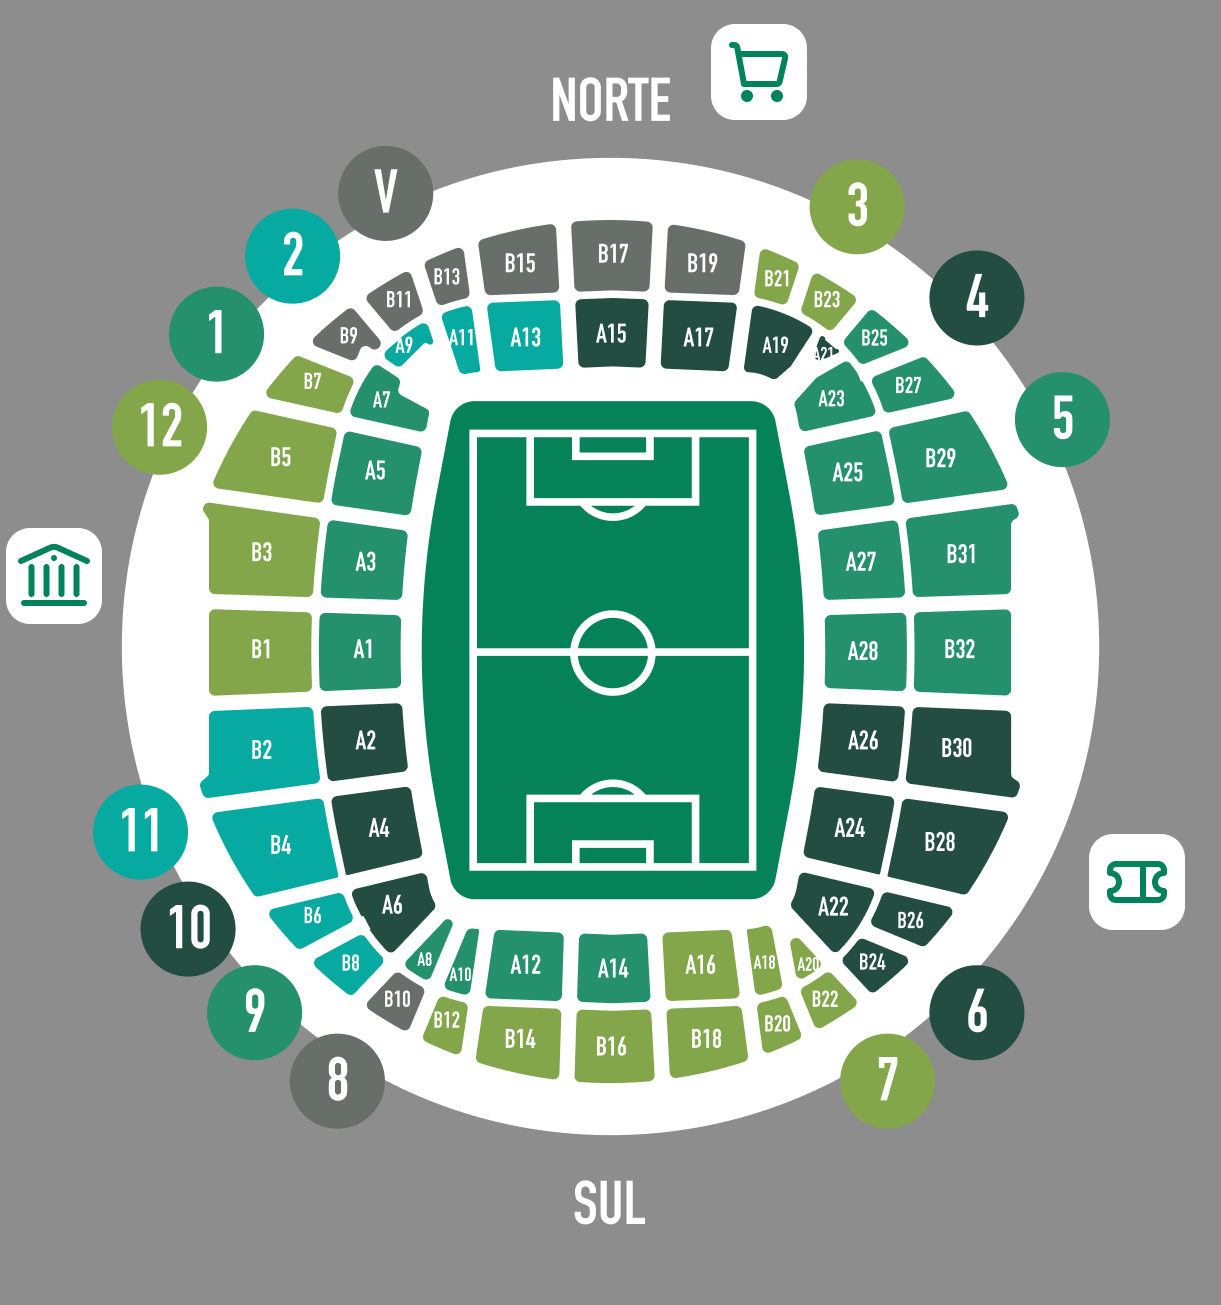
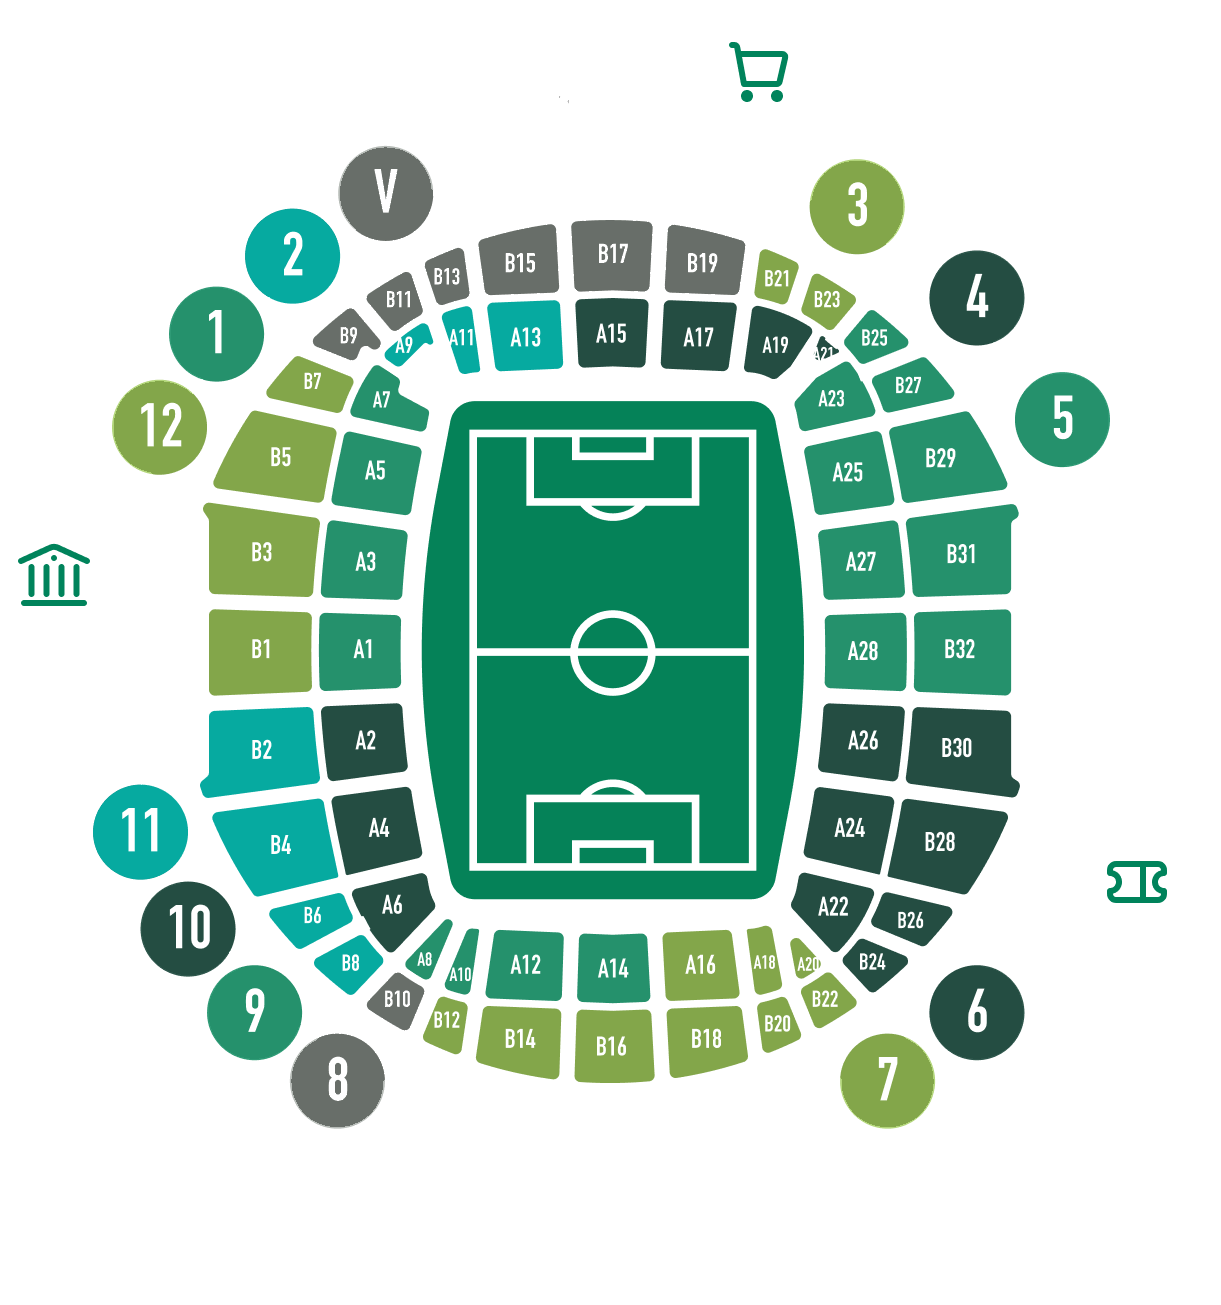
Mapa do estádio sem cinzento, Sócio desde fácil de encontrar, Plantel só no Futebol, hora do cartão sem encolher (21/11)
Claude-Session: https://claude.ai/code/session_01PDeJmrF15KjPgyTiQA5q2G

diff --git a/mobile/src/components/NextMatchCard.tsx b/mobile/src/components/NextMatchCard.tsx
@@ -177,6 +177,7 @@ function Countdown({ to, base, ticking }: { to: Date; base: Date; ticking: boole
       numberOfLines={1}
       adjustsFontSizeToFit
       minimumFontScale={layout.matchCardCountdownMinScale}
+      style={styles.big}
       testID="next-countdown"
     >
       {countdownClock(running ? left : 0)}
@@ -246,21 +247,21 @@ export function NextMatchCard({ moment, match, now, ticking = false, error = fal
     let main: ReactNode;
     let minute: ReactNode = null;
     if (state === 'live') {
-      main = <Text71 variant={compact ? 'score56' : 'score72'} numberOfLines={1} adjustsFontSizeToFit testID="next-score">{scoreLine(match)}</Text71>;
+      main = <Text71 variant={compact ? 'score56' : 'score72'} numberOfLines={1} adjustsFontSizeToFit style={styles.big} testID="next-score">{scoreLine(match)}</Text71>;
       minute = (
         <Text71 variant={compact ? 'titleS20' : 'title24'} color="primaryOnDark" numberOfLines={1}>
           {ui === 'halftime' ? stateLabel('halftime') : minuteText(match.elapsed, match.elapsedExtra)}
         </Text71>
       );
     } else if (state === 'finished') {
-      main = <Text71 variant={compact ? 'score56' : 'score72'} numberOfLines={1} adjustsFontSizeToFit testID="next-score">{scoreLine(match)}</Text71>;
+      main = <Text71 variant={compact ? 'score56' : 'score72'} numberOfLines={1} adjustsFontSizeToFit style={styles.big} testID="next-score">{scoreLine(match)}</Text71>;
     } else if (state === 'matchday') {
       main = <Countdown to={moment.countdownTo ?? match.kickoff} base={now} ticking={ticking} />;
     } else {
       main = off ? (
         <Text71 variant="titleS20" numberOfLines={1} testID="next-time">{stateLabel(ui).toUpperCase()}</Text71>
       ) : (
-        <Text71 variant={compact ? 'score56' : 'score72'} numberOfLines={1} adjustsFontSizeToFit testID="next-time">{kick}</Text71>
+        <Text71 variant={compact ? 'score56' : 'score72'} numberOfLines={1} adjustsFontSizeToFit style={styles.big} testID="next-time">{kick}</Text71>
       );
     }
     const showAction = !plain && action && state !== 'live';
@@ -342,6 +343,9 @@ const styles = StyleSheet.create({
   side: { flex: 1, flexBasis: 0, alignItems: 'center' },
   mid: { alignItems: 'center', justifyContent: 'center' },
   names: { marginTop: space.s8 },
+  // 21/11 (captura do Hóquei): o iOS só encolhe o texto até caber se ele tiver largura; sem ela a hora ficava minúscula e
+  // encostada. Ocupa a coluna central inteira e centra.
+  big: { alignSelf: 'stretch', textAlign: 'center' },
   name: { flex: 1, flexBasis: 0, textAlign: 'center' },
   card: {
     borderRadius: radii.r12,

diff --git a/mobile/app/(app)/index.tsx b/mobile/app/(app)/index.tsx
@@ -28,6 +28,8 @@ import { useSession } from '@/providers/SessionProvider';
 import { Text71 } from '@/theme/typography';
 import { colors, layout, space, type } from '@/theme/tokens';
 
+export const HOME_MEMBER_ASK = 'Adicionar anos de sócio';
+
 const ICONS = {
   settings: require('../../assets/icons/settings-future.svg'), // 4:1727 Interface / Settings_Future
   news: require('../../assets/icons/news.svg'), // 1561:5409 news_icon_with_photo 7
@@ -99,6 +101,8 @@ export default function Home() {
       : publicName({ displayName: profile.status === 'ready' ? profile.data.displayName : null }, uid));
   const since = user.status === 'ready' && user.data.partnerNumber != null ? String(user.data.partnerNumber).trim() : '';
   const years = since ? memberYearsText(since) : null;
+  // 21/11 (Martim): sem data legível, a Home diz onde se põe e o toque abre logo o campo "Sócio desde".
+  const askYears = user.status === 'ready' && !years;
   const comunidade = config.status === 'ready' && config.data.features.comunidadeLeonina === true;
   const items = menuItems(comunidade);
 
@@ -129,8 +133,8 @@ export default function Home() {
 
         <Touchable
           accessibilityRole="button"
-          accessibilityHint="Abre o perfil"
-          onPress={() => router.push('/perfil')}
+          accessibilityHint={askYears ? 'Abre o campo Sócio desde' : 'Abre o perfil'}
+          onPress={() => router.push(askYears ? '/perfil/editar' : '/perfil')}
           style={{ paddingTop: space.s16, paddingBottom: space.s16 }}
         >
           <Text71 variant="titleL28" numberOfLines={1}>{name}</Text71>
@@ -138,6 +142,10 @@ export default function Home() {
           {years ? (
             <Text71 testID="home-member-years" variant="titleS20" color="textSubtle" style={{ paddingTop: space.s4 }}>
               {years.toUpperCase()}
+            </Text71>
+          ) : askYears ? (
+            <Text71 testID="home-member-years-ask" variant="titleS20" color="primaryOnDark" style={{ paddingTop: space.s4 }}>
+              {HOME_MEMBER_ASK.toUpperCase()}
             </Text71>
           ) : null}
         </Touchable>

diff --git a/mobile/app/(app)/definicoes/conta.tsx b/mobile/app/(app)/definicoes/conta.tsx
@@ -18,6 +18,7 @@ export const CONTA_TEXT = {
   noEmail: 'Sem email',
   loading: 'A carregar…',
   nameError: 'Não foi possível carregar o nome.',
+  noSince: 'Adicionar (MM/AAAA)',
 } as const;
 
 function Field({ label, value, onPress, a11y }: { label: string; value: string; onPress?: () => void; a11y?: string }) {
@@ -64,6 +65,7 @@ export default function Conta() {
   const uid = user?.uid ?? null;
   const profile = usePublicProfile(uid);
   const doc = useMyUser(uid);
+  const since = doc.status === 'ready' && doc.data.partnerNumber != null ? String(doc.data.partnerNumber).trim() : '';
 
   // Nome público: o de publicProfiles; sem ele, a regra do servidor ("Maria C."), como no Perfil.
   let name: string = CONTA_TEXT.loading;
@@ -83,6 +85,13 @@ export default function Conta() {
         contentContainerStyle={{ paddingHorizontal: space.s24, paddingTop: layout.authContentTop, gap: layout.settingsFieldGap }}
       >
         <Field label="Nome público" value={name} a11y={`Nome público: ${name}. Mudar`} onPress={() => router.push('/perfil/nome')} />
+        {/* 21/11 (Martim): "Sócio desde" também aqui, onde se procura; abre o Editar perfil (MM/AAAA). */}
+        <Field
+          label="Sócio desde"
+          value={since || CONTA_TEXT.noSince}
+          a11y={`Sócio desde: ${since || CONTA_TEXT.noSince}. Mudar`}
+          onPress={() => router.push('/perfil/editar')}
+        />
         <Field label="Email" value={user?.email ?? CONTA_TEXT.noEmail} />
         {user?.providers.includes('password') ? (
           <Touchable

diff --git a/mobile/__tests__/app/home.test.tsx b/mobile/__tests__/app/home.test.tsx
@@ -151,10 +151,13 @@ describe('cabeçalho', () => {
     expect(router.push).toHaveBeenCalledWith('/perfil');
   });
 
-  it('sem partnerNumber (ou ilegível) não mostra os anos de sócio', async () => {
+  it('sem partnerNumber (ou ilegível) não mostra os anos de sócio, pede-os e o toque abre o Editar perfil (21/11)', async () => {
     mockUser.current = { status: 'ready', data: { name: 'João Oliveira Simões' } };
     await render(ui());
     expect(screen.queryByTestId('home-member-years')).toBeNull();
+    expect(screen.getByTestId('home-member-years-ask').props.children).toBe('ADICIONAR ANOS DE SÓCIO');
+    await fireEvent.press(screen.getByText('João Oliveira Simões'));
+    expect(router.push).toHaveBeenCalledWith('/perfil/editar');
     mockUser.current = { status: 'ready', data: { name: 'João Oliveira Simões', partnerNumber: 'abc' } };
     await render(ui());
     expect(screen.queryByTestId('home-member-years')).toBeNull();

diff --git a/mobile/app/(app)/agenda.tsx b/mobile/app/(app)/agenda.tsx
@@ -144,14 +144,17 @@ export default function Agenda() {
       <Header
         title="CALENDÁRIO"
         onBack={back}
+        // 21/11 (Martim): o plantel é o do futebol; nas outras modalidades o ícone não aparece.
         right={
-          <Touchable
-            accessibilityRole="button"
-            accessibilityLabel="Plantel"
-            onPress={() => router.push('/equipa')}
-          >
-            <Feather name="users" size={layout.headerIcon} color={colors.white} />
-          </Touchable>
+          sport === 'football' ? (
+            <Touchable
+              accessibilityRole="button"
+              accessibilityLabel="Plantel"
+              onPress={() => router.push('/equipa')}
+            >
+              <Feather name="users" size={layout.headerIcon} color={colors.white} />
+            </Touchable>
+          ) : undefined
         }
       />
       {bar}

diff --git a/mobile/__tests__/app/definicoes.test.tsx b/mobile/__tests__/app/definicoes.test.tsx
@@ -258,6 +258,16 @@ describe('Conta', () => {
     expect(screen.queryByDisplayValue('ze@x.pt')).toBeNull();
   });
 
+  it('21/11: Sócio desde aparece e abre o Editar perfil; sem data diz Adicionar', async () => {
+    await render(wrap(<Conta />));
+    expect(screen.getByText('Adicionar (MM/AAAA)')).toBeTruthy();
+    mockMyUser.current = { status: 'ready', data: { partnerNumber: '05/2008' } };
+    await render(wrap(<Conta />));
+    expect(screen.getByText('05/2008')).toBeTruthy();
+    await fireEvent.press(screen.getByRole('button', { name: /Sócio desde: 05\/2008/ }));
+    expect(mockPush).toHaveBeenCalledWith('/perfil/editar');
+  });
+
   it('tocar no nome abre /perfil/nome', async () => {
     await render(wrap(<Conta />));
     await fireEvent.press(screen.getByRole('button', { name: /Nome público/ }));

diff --git a/mobile/__tests__/components/NextMatchCard.test.tsx b/mobile/__tests__/components/NextMatchCard.test.tsx
@@ -57,6 +57,8 @@ describe('compact (Home, 20/11)', () => {
     await render(<NextMatchCard compact moment={moment(m)} match={m} now={NOW} {...handlers} />);
     expect(StyleSheet.flatten(screen.getByTestId('next-match-card').props.style).height).toBeUndefined(); // 21/11: altura pelo conteúdo, nada cortado
     expect(StyleSheet.flatten(screen.getByTestId('next-time').props.style).fontSize).toBe(56);
+    // 21/11 (Hóquei): a hora ocupa a coluna central, senão o iOS encolhe-a até ficar minúscula.
+    expect(StyleSheet.flatten(screen.getByTestId('next-time').props.style)).toMatchObject({ alignSelf: 'stretch', textAlign: 'center' });
     expect(screen.getByTestId('next-tv')).toBeTruthy();
     expect(screen.getByText('Taça de Portugal')).toBeTruthy();
     expect(screen.getByText('SÁB 26 DEZ')).toBeTruthy();

diff --git a/mobile/__tests__/app/agenda.test.tsx b/mobile/__tests__/app/agenda.test.tsx
@@ -77,6 +77,14 @@ describe('cabeçalho e filtro', () => {
     expect(router.push).toHaveBeenCalledWith('/equipa');
   });
 
+  it('21/11: o botão Plantel só aparece no Futebol', async () => {
+    await render(ui());
+    await fireEvent.press(screen.getByRole('tab', { name: 'Futsal' }));
+    expect(screen.queryByRole('button', { name: 'Plantel' })).toBeNull();
+    await fireEvent.press(screen.getByRole('tab', { name: 'Futebol' }));
+    expect(screen.getByRole('button', { name: 'Plantel' })).toBeTruthy();
+  });
+
   it('começa no Futebol e mudar para Futsal volta a perguntar os jogos dessa modalidade', async () => {
     await render(ui());
     expect(sportsAsked()[0]).toBe('football');
